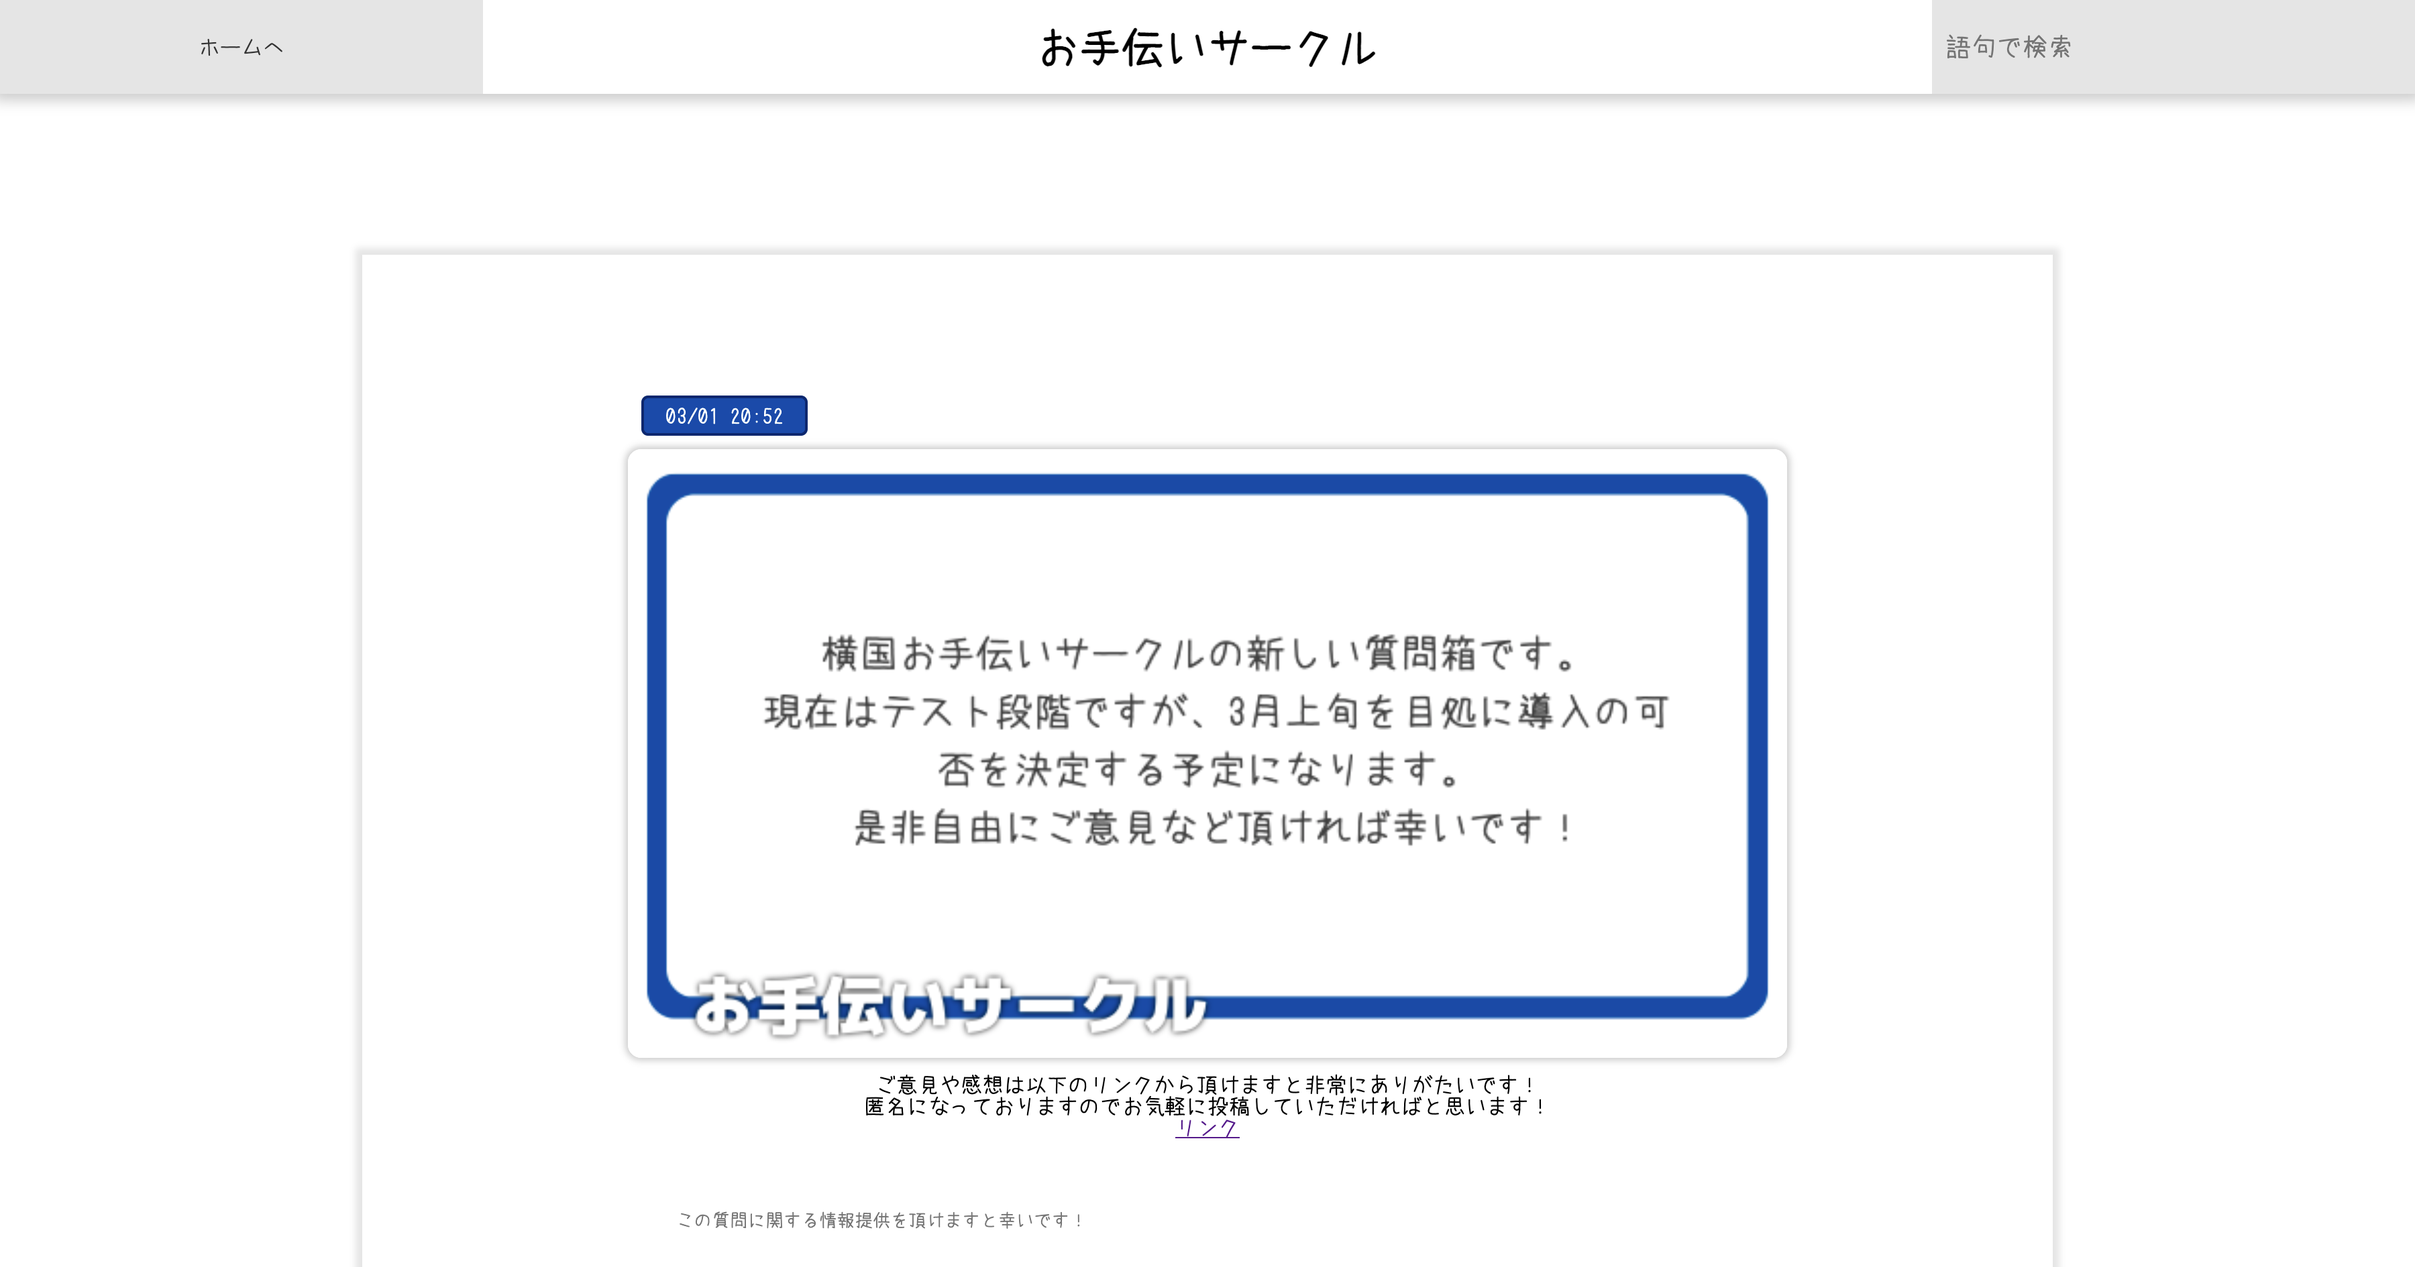
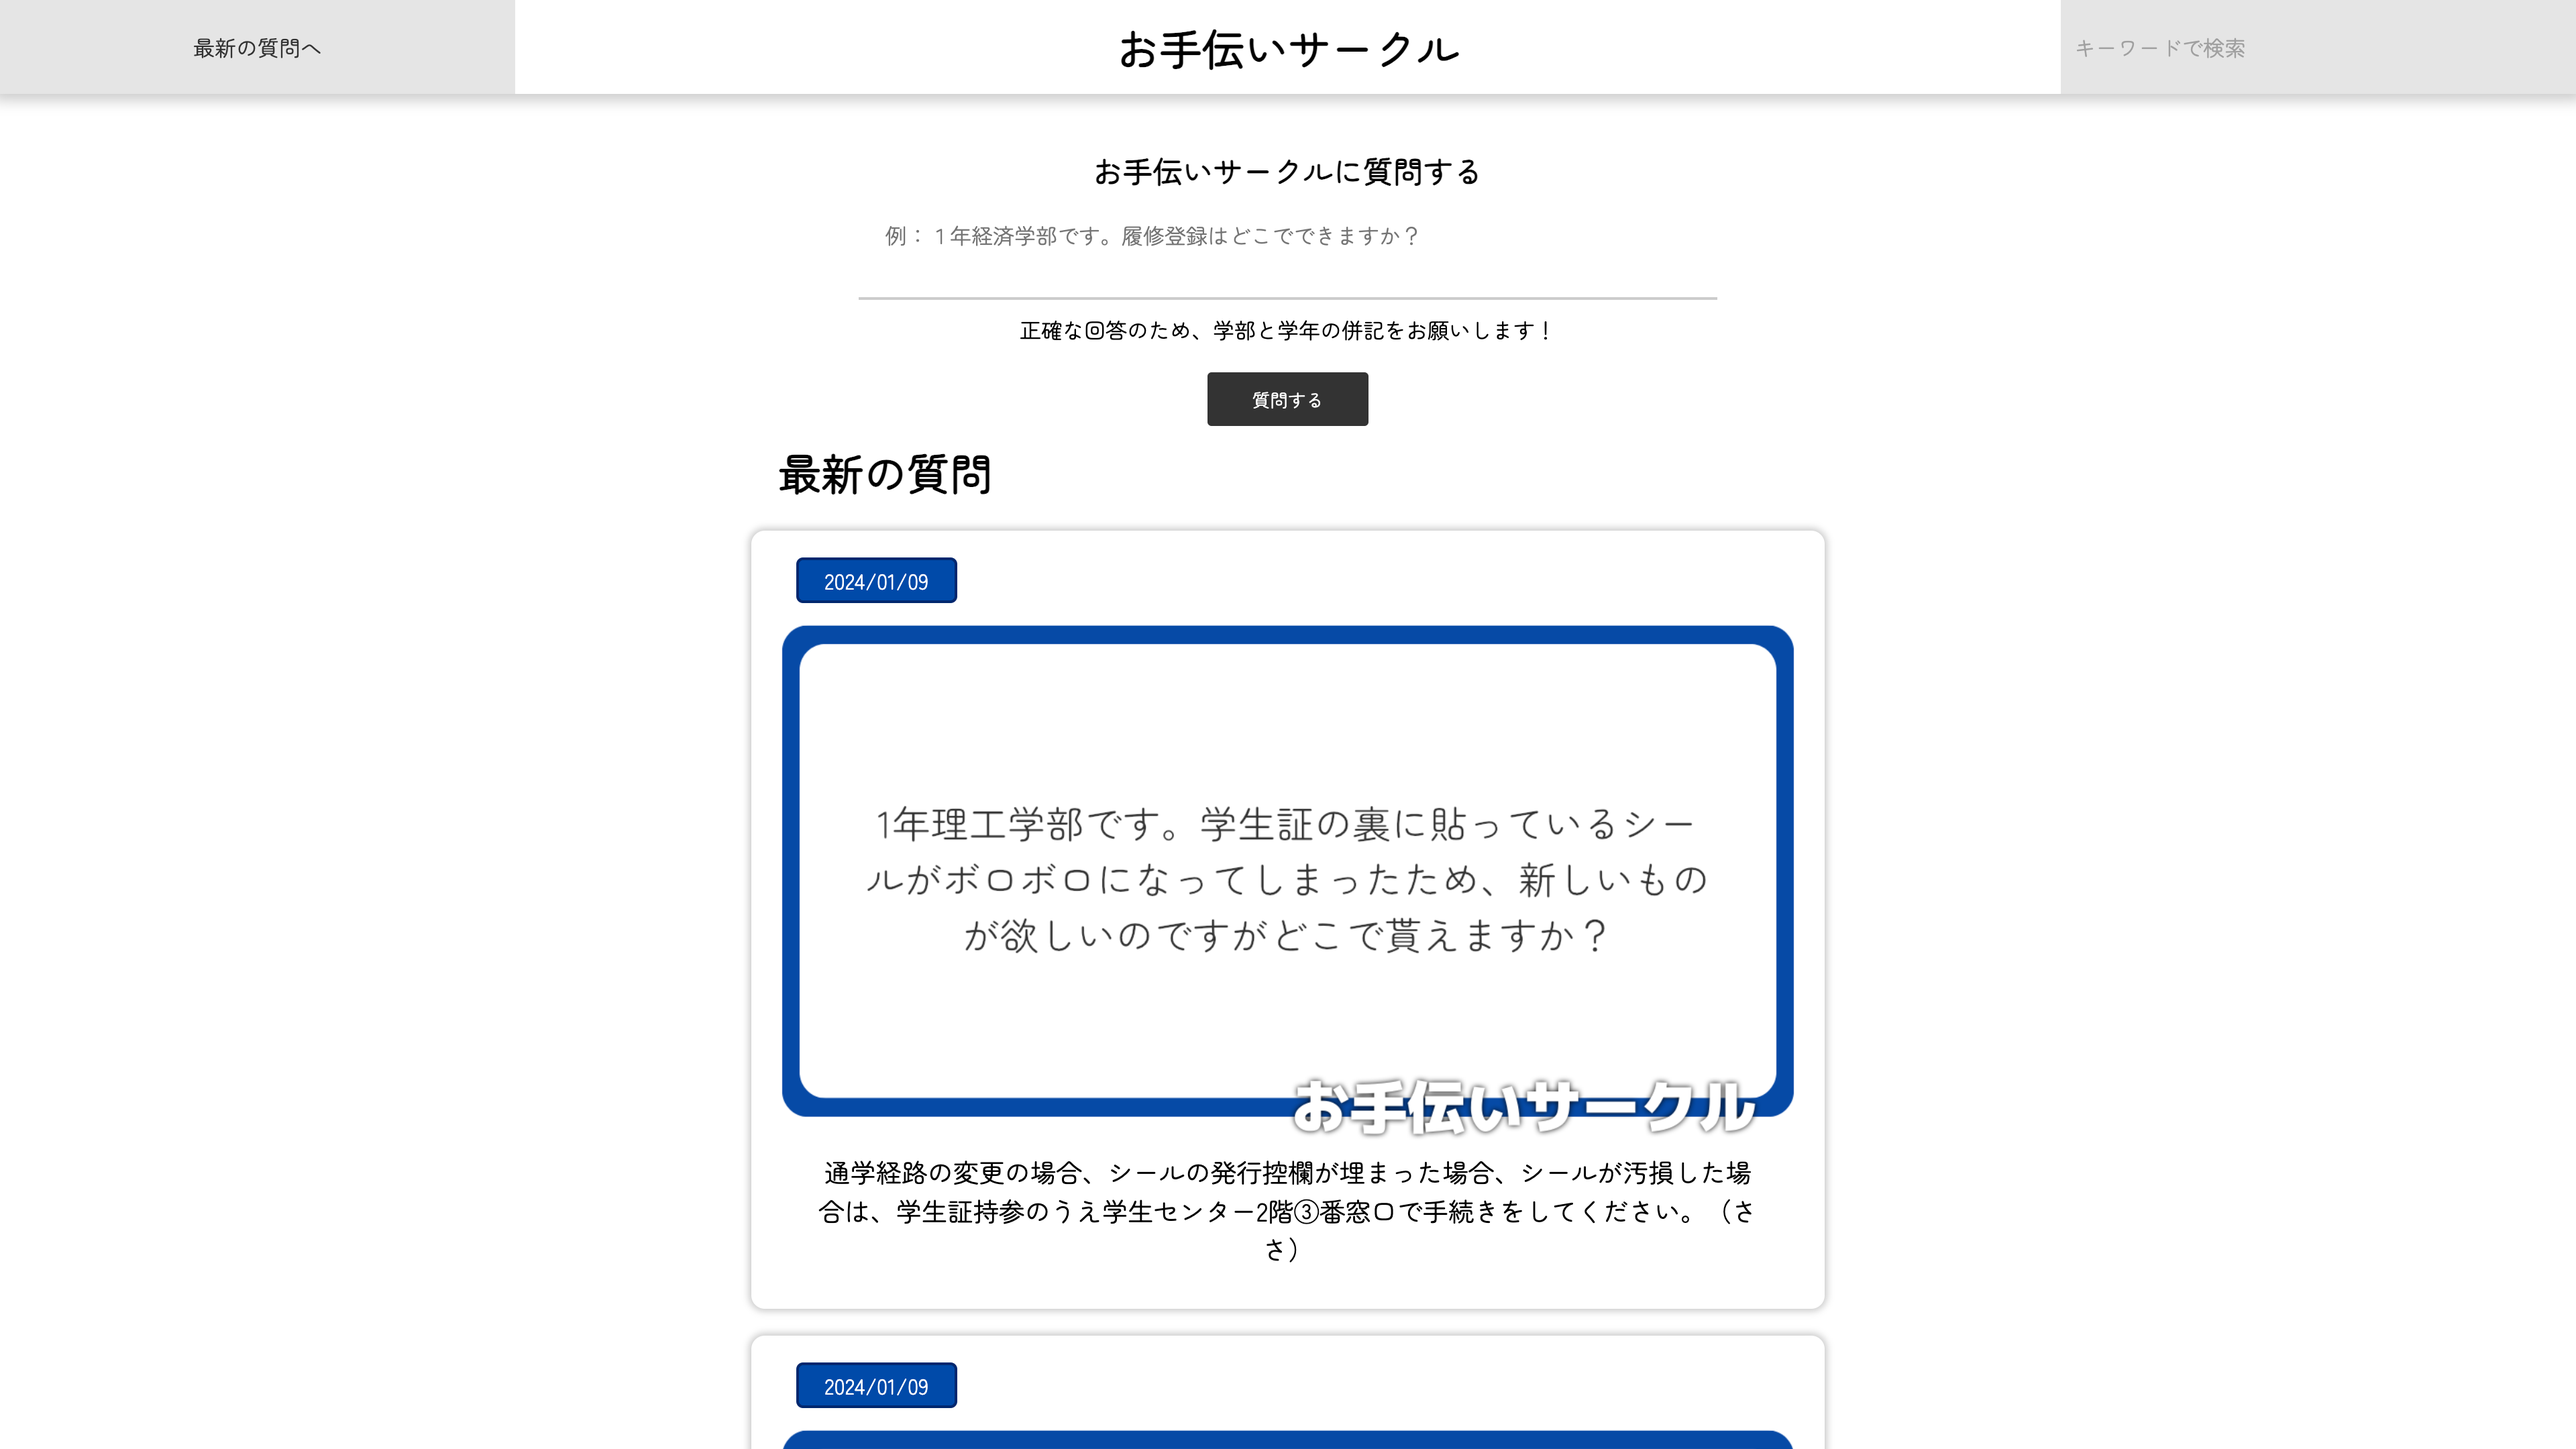
fix: お手伝いサークル公式サイトの画像や文章を修正

diff --git a/src/components/Index/elements/productBody/index.tsx b/src/components/Index/elements/productBody/index.tsx
@@ -8,7 +8,7 @@ const products = [
     imageSrc: '/images/portfolio-blog.png',
   },
   {
-    title: '改善版質問箱',
+    title: 'お手伝いサークル公式サイト',
     href: 'https://otetsudai-circle.com',
     imageSrc: '/images/otetsudai-circle.png',
   },
